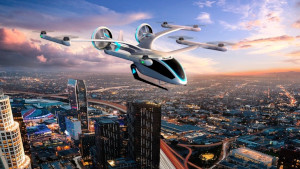
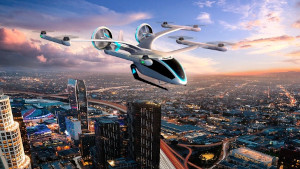
Update

diff --git a/style/style.css b/style/style.css
@@ -38,8 +38,6 @@ body {
 }
 
 .img-p {
-    width: 500px;
-    height: 282px;
     display: block;
     margin: auto;
 }
